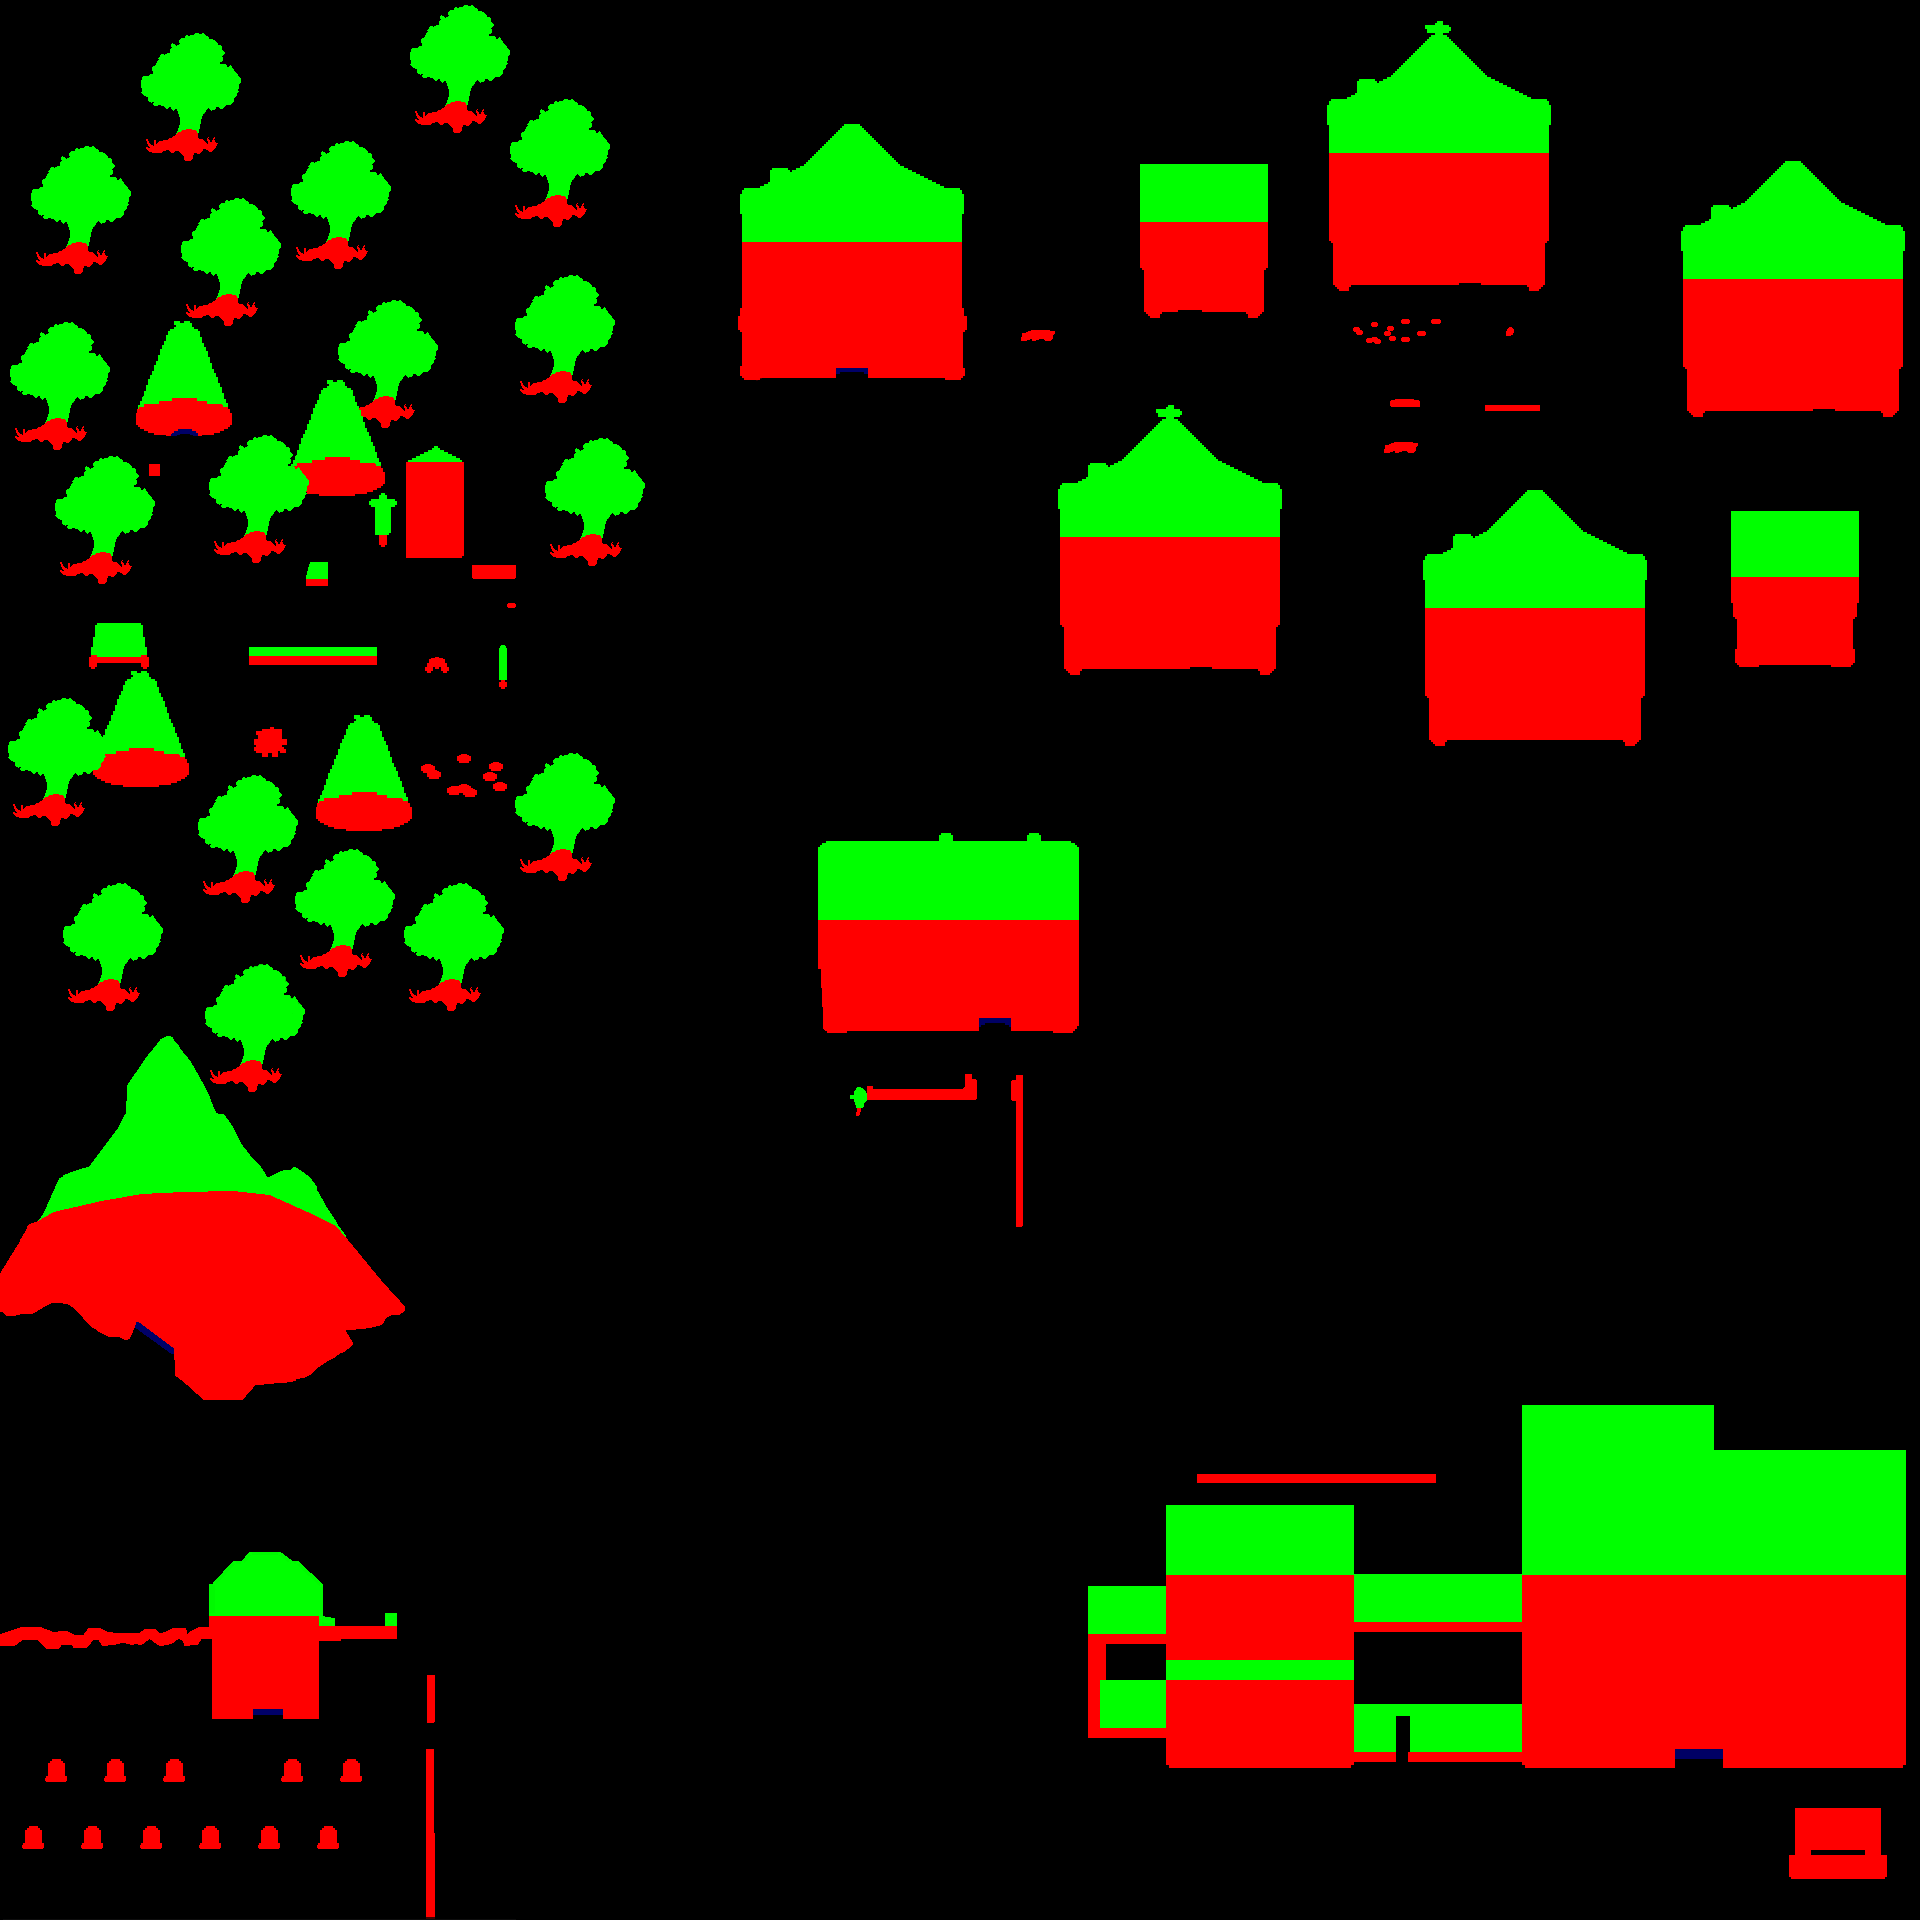
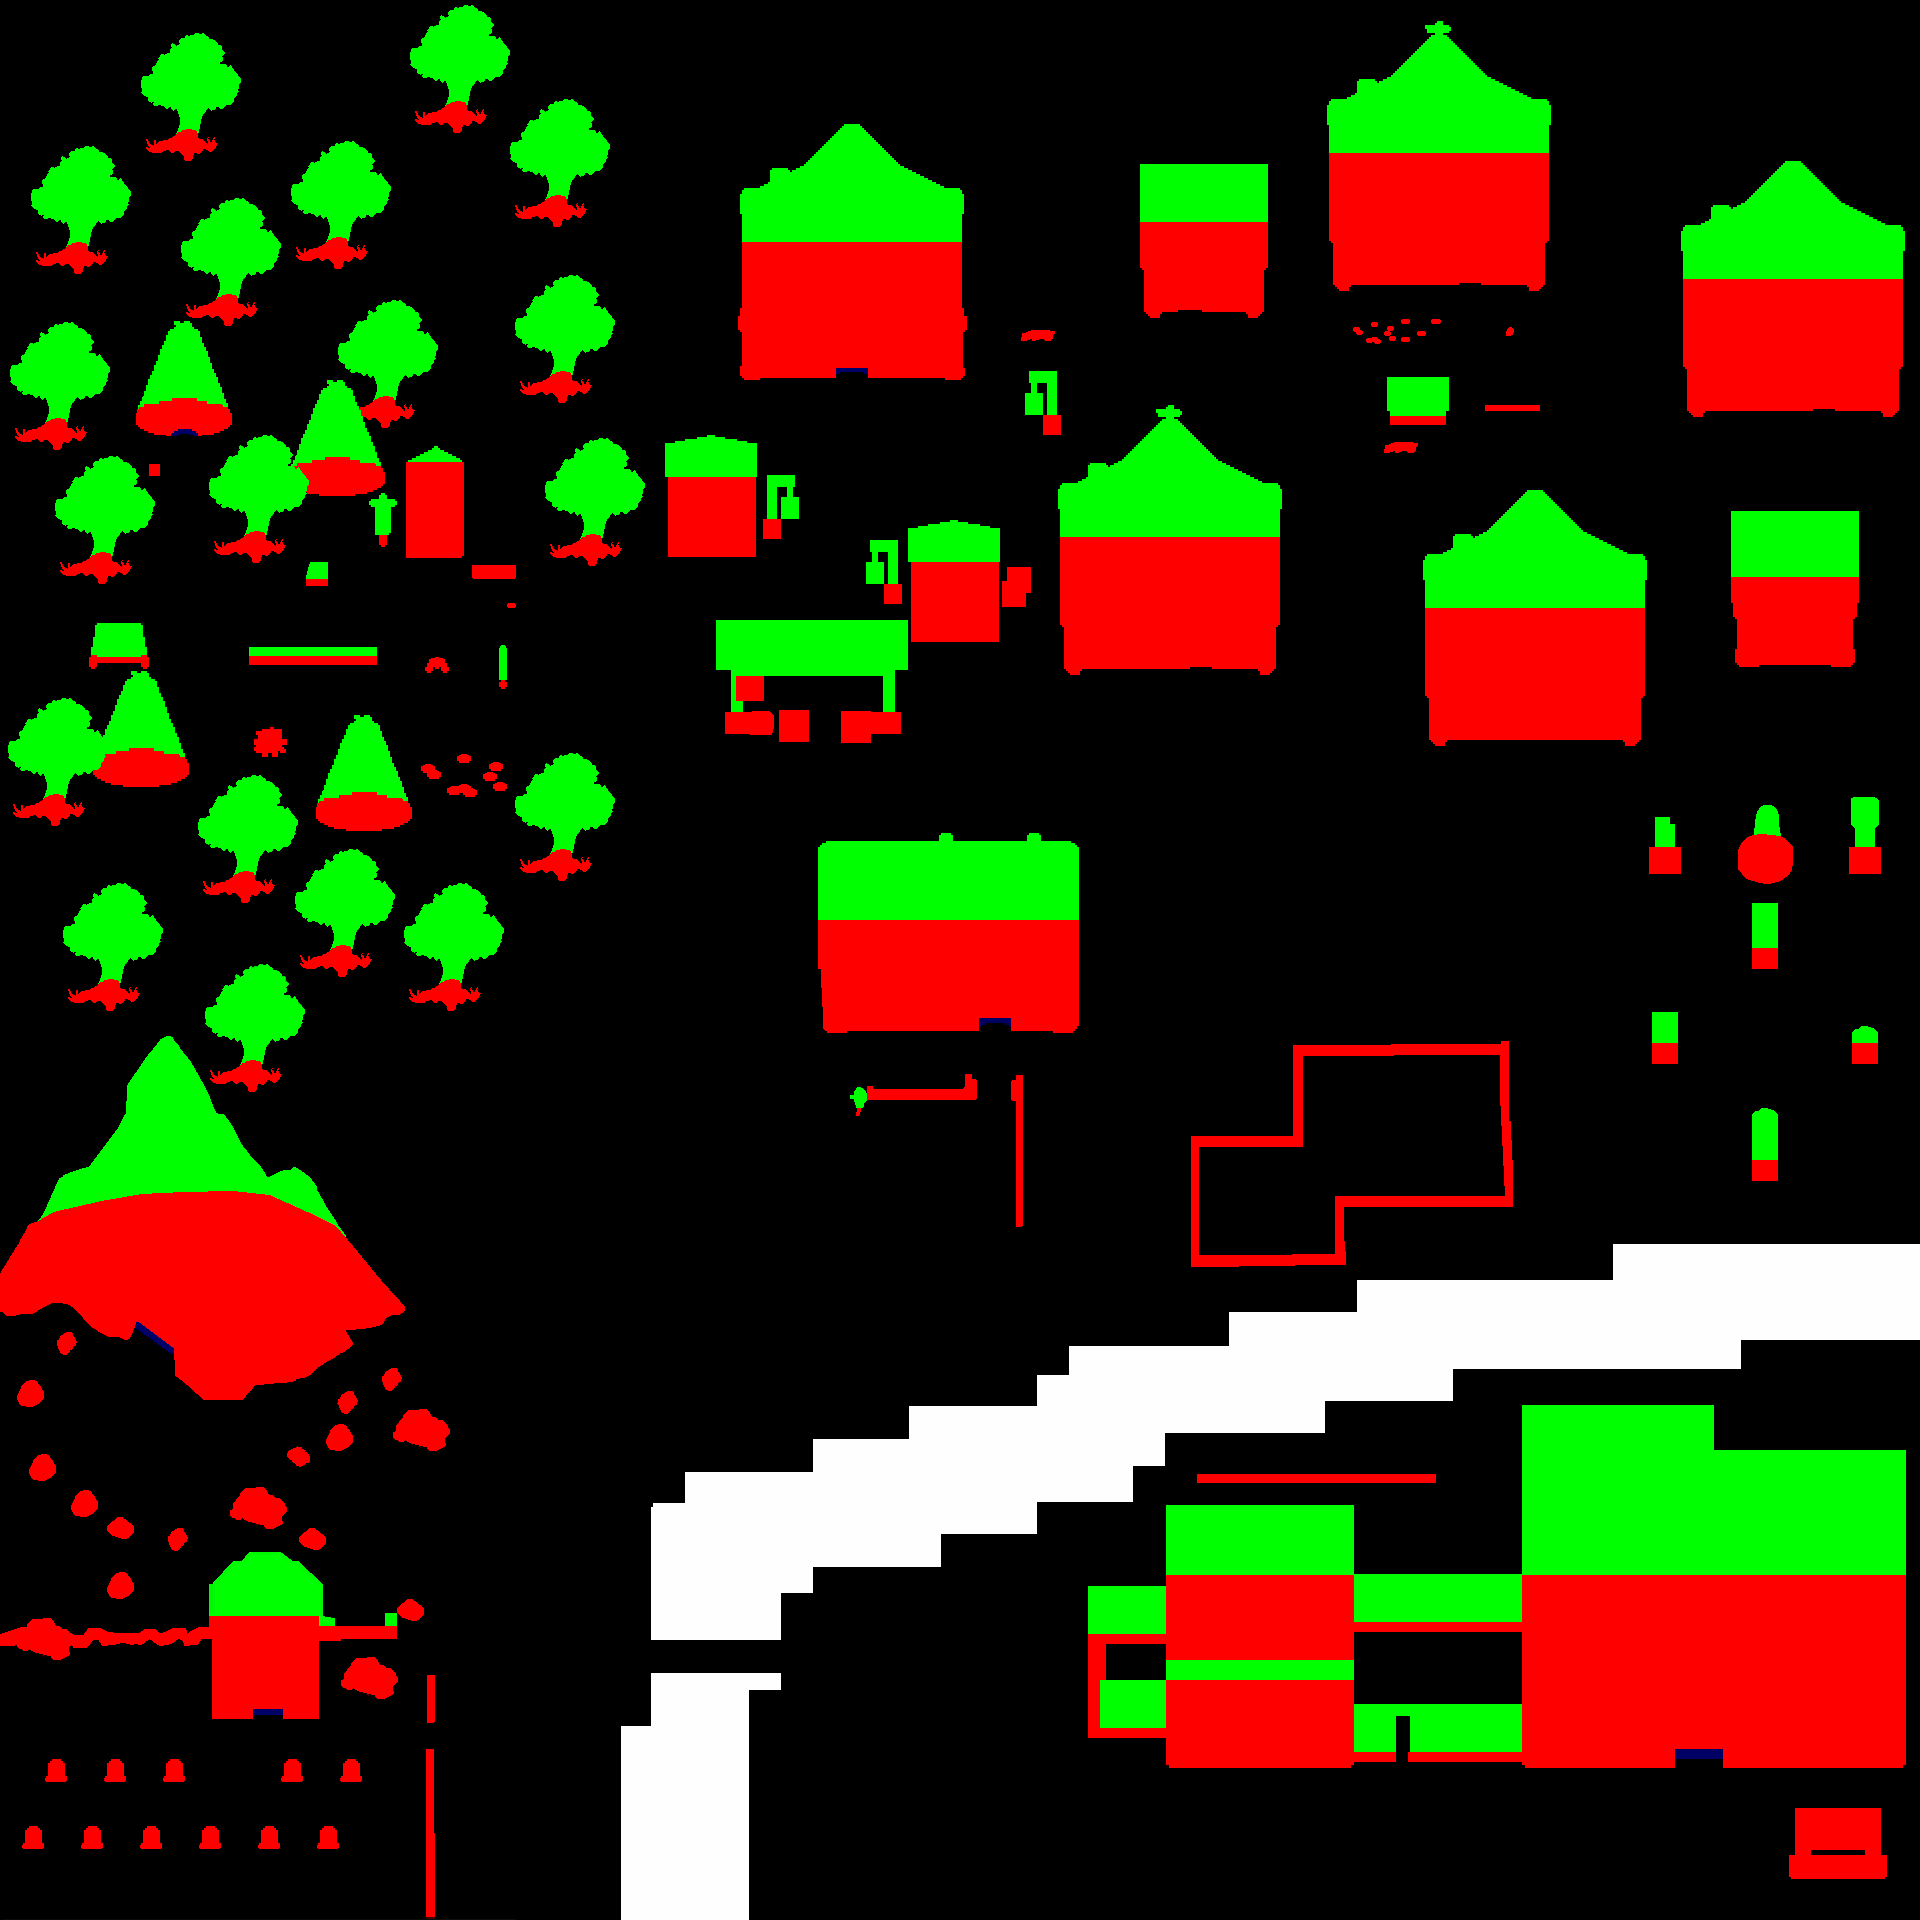
(+) player walk slowly in the water

diff --git a/src/gameplay/move_player_view.c b/src/gameplay/move_player_view.c
@@ -7,6 +7,19 @@
 
 #include "../../include/rpg.h"
 
+static bool color_is_white(sfColor color)
+{
+    return (color.r == 254 && color.g == 254 && color.b == 254);
+}
+
+static float get_speed(sfColor color)
+{
+    if (color_is_white(color))
+        return (SPEED_PLAYER / 4);
+    else
+        return (SPEED_PLAYER);
+}
+
 void move_player_and_view_horizontal(rpg_t *rpg, sfImage *image,
 sfVector2f pos_player, bool move_view)
 {
@@ -16,18 +29,18 @@ sfVector2f pos_player, bool move_view)
         (sfVector2f){pos_player.x + 2, pos_player.y});
         if (rpg->spritesheet[rpg->player_stats.skin].pos.x > 385 &&
         rpg->begin.view.center.x < 1535 && color.r != 255 && move_view)
-            rpg->begin.view.center.x += SPEED_PLAYER;
+            rpg->begin.view.center.x += get_speed(color);
         if (color.r != 255)
-            rpg->spritesheet[rpg->player_stats.skin].pos.x += SPEED_PLAYER;
+            rpg->spritesheet[rpg->player_stats.skin].pos.x += get_speed(color);
     }
     if (rpg->all_events.left || rpg->all_events.q) {
         color = get_color_from_player(image,
         (sfVector2f){pos_player.x - 2, pos_player.y});
         if (rpg->spritesheet[rpg->player_stats.skin].pos.x < 1535 &&
         rpg->begin.view.center.x > 385 && color.r != 255 && move_view)
-            rpg->begin.view.center.x -= SPEED_PLAYER;
+            rpg->begin.view.center.x -= get_speed(color);
         if (color.r != 255)
-            rpg->spritesheet[rpg->player_stats.skin].pos.x -= SPEED_PLAYER;
+            rpg->spritesheet[rpg->player_stats.skin].pos.x -= get_speed(color);
     }
     set_view(rpg, rpg->begin.view.center);
 }
@@ -41,18 +54,18 @@ sfVector2f pos_player, bool move_view)
         (sfVector2f){pos_player.x, pos_player.y - 2});
         if (rpg->spritesheet[rpg->player_stats.skin].pos.y < 1920 - 217 &&
         rpg->begin.view.center.y > 216 && color.r != 255 && move_view)
-            rpg->begin.view.center.y -= SPEED_PLAYER;
+            rpg->begin.view.center.y -= get_speed(color);
         if (color.r != 255)
-            rpg->spritesheet[rpg->player_stats.skin].pos.y -= SPEED_PLAYER;
+            rpg->spritesheet[rpg->player_stats.skin].pos.y -= get_speed(color);
     }
     if (rpg->all_events.down || rpg->all_events.s) {
         color = get_color_from_player(image,
         (sfVector2f){pos_player.x, pos_player.y + 2});
         if (rpg->spritesheet[rpg->player_stats.skin].pos.y > 216 &&
         rpg->begin.view.center.y < 1920 - 217 && color.r != 255 && move_view)
-            rpg->begin.view.center.y += SPEED_PLAYER;
+            rpg->begin.view.center.y += get_speed(color);
         if (color.r != 255)
-            rpg->spritesheet[rpg->player_stats.skin].pos.y += SPEED_PLAYER;
+            rpg->spritesheet[rpg->player_stats.skin].pos.y += get_speed(color);
     }
     set_view(rpg, rpg->begin.view.center);
 }

diff --git a/src/myrpg.c b/src/myrpg.c
@@ -35,7 +35,7 @@ static void big_loop(rpg_t *rpg, sfColor *oui)
     get_fps(rpg);
     my_events(rpg);
     modify_zoom(rpg);
-    if ((rpg->all_events.q || rpg->all_events.c) && rpg->all_events.ctrl)
+    if ((rpg->all_events.c) && rpg->all_events.ctrl)
         sfRenderWindow_close(rpg->begin.window);
     if (rpg->all_events.ctrl && rpg->all_events.s) {
         save_file("save", rpg);
